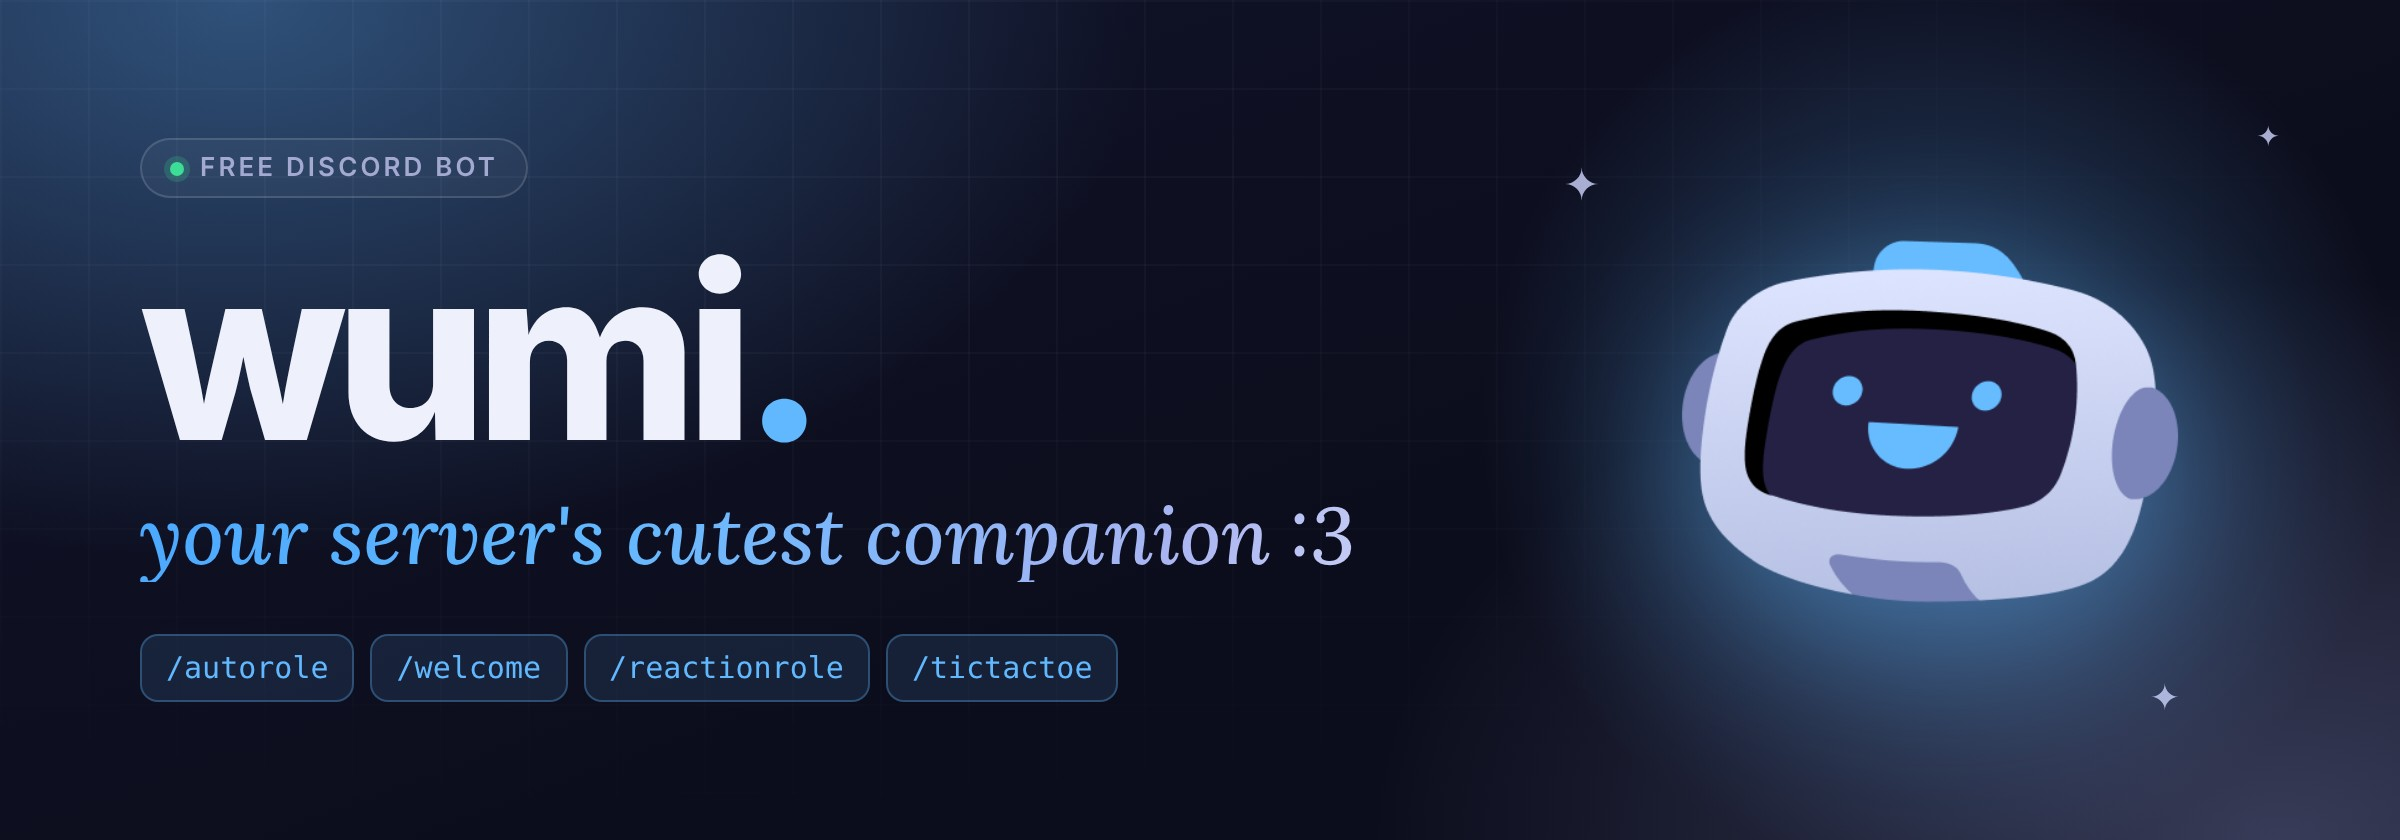
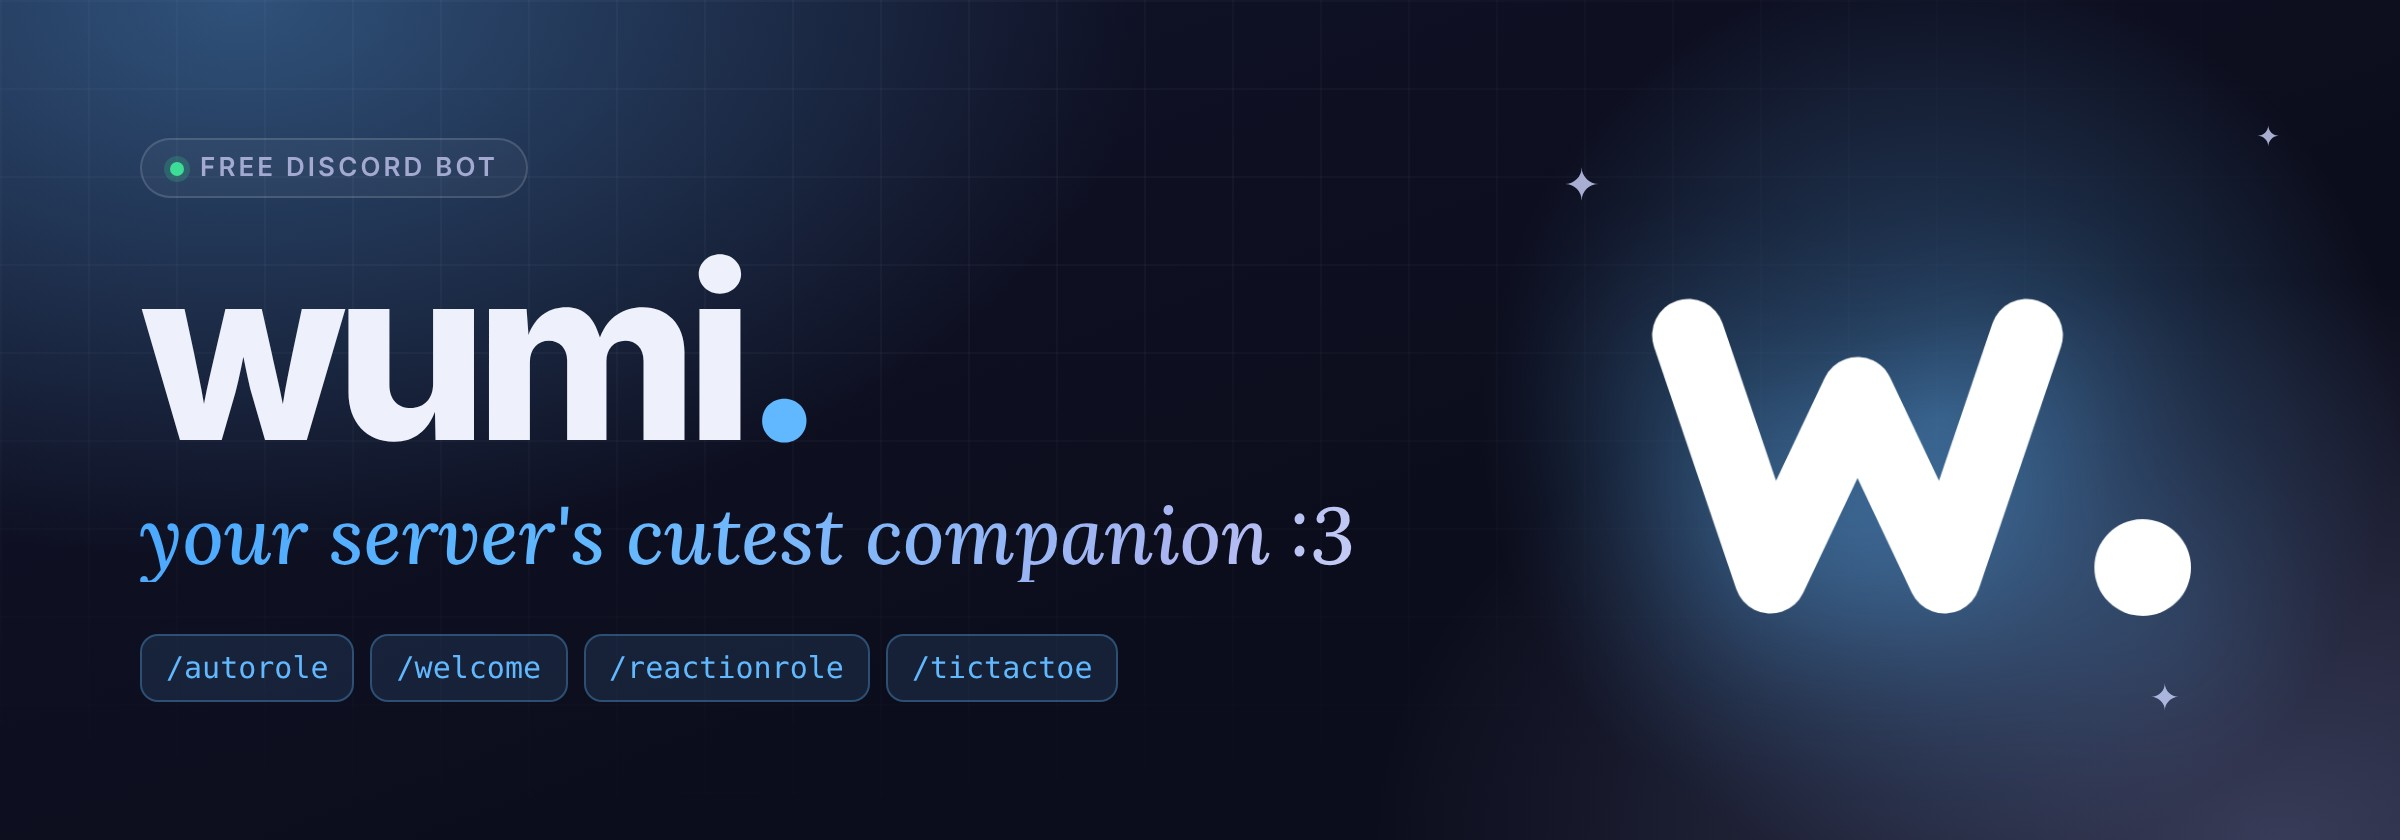
t

Changed region(s): [[0.6875, 0.2786, 0.9375, 0.7429]]

diff --git a/index.html b/index.html
@@ -11,15 +11,15 @@
 <meta property="og:url" content="https://zhaak63.github.io/Wumi/">
 <meta property="og:title" content="Wumi · Bot & outils Discord">
 <meta property="og:description" content="Un bot mignon qui gère ton serveur, et des outils gratuits pour le rendre beau.">
-<meta property="og:image" content="https://zhaak63.github.io/Wumi/og-wumi.jpg?v=2">
+<meta property="og:image" content="https://zhaak63.github.io/Wumi/og-wumi.jpg?v=3">
 <meta property="og:image:width" content="1200">
 <meta property="og:image:height" content="630">
 <meta property="og:image:alt" content="Wumi, le petit robot mascotte du bot">
 <meta name="twitter:card" content="summary_large_image">
-<meta name="twitter:image" content="https://zhaak63.github.io/Wumi/og-wumi.jpg?v=2">
-<link rel="icon" type="image/png" sizes="64x64" href="favicon.png?v=2">
-<link rel="icon" href="favicon.ico?v=2" sizes="any">
-<link rel="apple-touch-icon" href="apple-touch-icon.png?v=2">
+<meta name="twitter:image" content="https://zhaak63.github.io/Wumi/og-wumi.jpg?v=3">
+<link rel="icon" type="image/png" sizes="64x64" href="favicon.png?v=3">
+<link rel="icon" href="favicon.ico?v=3" sizes="any">
+<link rel="apple-touch-icon" href="apple-touch-icon.png?v=3">
 <link rel="preconnect" href="https://fonts.googleapis.com">
 <link rel="preconnect" href="https://fonts.gstatic.com" crossorigin>
 <link href="https://fonts.googleapis.com/css2?family=Inter:wght@400;500;600;700&family=Instrument+Serif:ital@0;1&display=swap" rel="stylesheet">
@@ -54,7 +54,7 @@ em.serif,.serif{font-family:"Instrument Serif",Georgia,serif;font-style:italic;f
 header{position:sticky;top:0;z-index:50;backdrop-filter:blur(14px);background:rgba(12,13,28,.72);border-bottom:1px solid var(--line)}
 nav{display:flex;align-items:center;gap:28px;height:68px}
 .logo{display:flex;align-items:center;gap:10px;font-weight:700;font-size:20px;letter-spacing:-.02em}
-.logo-mark{width:36px;height:36px;object-fit:contain;filter:drop-shadow(0 4px 12px rgba(98,184,255,.35))}
+.logo-mark{width:30px;height:30px;object-fit:contain;filter:drop-shadow(0 4px 12px rgba(98,184,255,.35))}
 .ava.wumi{background:none;padding:0}.ava.wumi img{width:28px;height:28px;object-fit:contain}
 .logo span.dot{color:var(--pink)}
 .nav-links{display:flex;gap:22px;font-size:14.5px;color:var(--muted)}
@@ -78,7 +78,7 @@ h1{font-size:clamp(40px,7vw,78px);line-height:1.02;letter-spacing:-.035em;font-w
 h1 .serif{display:block;font-size:1.08em;font-weight:400}
 .lead{font-size:clamp(16px,2vw,19px);color:var(--muted);max-width:620px;margin:24px auto 34px}
 .hero-ctas{display:flex;gap:12px;justify-content:center;flex-wrap:wrap}
-.hero-mascot{width:110px;height:110px;margin:0 auto 18px;animation:bob 3.5s ease-in-out infinite;filter:drop-shadow(0 18px 34px rgba(98,184,255,.4))}
+.hero-mascot{width:132px;height:110px;object-fit:contain;margin:0 auto 22px;animation:float 4s ease-in-out infinite;filter:drop-shadow(0 18px 34px rgba(98,184,255,.4))}
 .hero-mascot.rv.in{opacity:1}
 .hero-note{margin-top:18px;font-size:13px;color:var(--dim)}
 
@@ -179,7 +179,8 @@ details p{color:var(--muted);margin-top:12px;font-size:15.5px}
 /* cta */
 .cta{margin-top:120px;position:relative;text-align:center;padding:80px 24px;border-radius:28px;border:1px solid var(--line-2);overflow:hidden;
   background:radial-gradient(500px 260px at 20% 0%,rgba(98,184,255,.22),transparent 70%),radial-gradient(500px 260px at 80% 100%,rgba(143,160,255,.2),transparent 70%),var(--bg-2)}
-.cta .mascot{width:120px;height:120px;margin:0 auto 14px;display:block;animation:bob 3s ease-in-out infinite;filter:drop-shadow(0 16px 30px rgba(98,184,255,.35))}
+.cta .mascot{width:96px;height:96px;margin:0 auto 18px;display:block;animation:float 3.5s ease-in-out infinite;filter:drop-shadow(0 16px 30px rgba(98,184,255,.35))}
+@keyframes float{50%{transform:translateY(-8px)}}
 @keyframes bob{50%{transform:translateY(-8px) rotate(-4deg)}}
 .cta p{color:var(--muted);max-width:540px;margin:16px auto 30px;font-size:17px}
 
@@ -224,7 +225,7 @@ footer{margin-top:100px;border-top:1px solid var(--line);padding:60px 0 40px}
 
 <header id="hdr">
   <nav class="wrap">
-    <a href="#top" class="logo"><img src="Logo.png" alt="Wumi" class="logo-mark"><span>wumi<span class="dot">.</span></span></a>
+    <a href="#top" class="logo"><img src="wumi-icone.svg" alt="" class="logo-mark"><span>wumi<span class="dot">.</span></span></a>
     <div class="nav-links">
       <a href="#fonctions">Fonctionnalités</a>
       <a href="#outils">Outils</a>
@@ -245,7 +246,7 @@ footer{margin-top:100px;border-top:1px solid var(--line);padding:60px 0 40px}
   <div class="hero">
     <div class="grid-bg"></div>
     <div class="wrap">
-      <img src="Logo.png" alt="Wumi" class="hero-mascot rv">
+      <img src="wumi-w.svg" alt="Wumi" class="hero-mascot rv">
       <div class="pill rv"><b>NOUVEAU</b> Wumi et Aesthetic Creators, réunis au même endroit</div>
       <h1 class="rv">Un serveur qui vit. <span class="serif grad-text">Un bot qui suit le rythme.</span></h1>
       <p class="lead rv">Wumi accueille tes membres, distribue les rôles et veille sur la modération. Et pour rendre ton serveur beau, tous les outils Aesthetic Creators sont juste à côté, gratuits.</p>
@@ -283,8 +284,8 @@ footer{margin-top:100px;border-top:1px solid var(--line);padding:60px 0 40px}
         <aside class="mock-chat">
           <h6># BIENVENUE</h6>
           <div class="msg"><div class="ava" style="background:#7b80b8;color:#fff">M</div><div><span class="name">Maya</span><p><span class="cmd">/autorole add</span> role: <span class="mention">@Membre</span></p></div></div>
-          <div class="msg"><div class="ava wumi"><img src="Logo.png" alt="Wumi"></div><div><span class="name">Wumi<span class="bot">BOT</span></span><p>C'est réglé ! Les nouveaux recevront automatiquement <span class="mention">@Membre</span>.</p></div></div>
-          <div class="msg"><div class="ava wumi"><img src="Logo.png" alt="Wumi"></div><div><span class="name">Wumi<span class="bot">BOT</span></span><p>Bienvenue sur le serveur <span class="mention">@Noa</span> ! Je t'ai donné le rôle @Membre :3</p></div></div>
+          <div class="msg"><div class="ava wumi"><img src="wumi-icone.svg" alt="Wumi"></div><div><span class="name">Wumi<span class="bot">BOT</span></span><p>C'est réglé ! Les nouveaux recevront automatiquement <span class="mention">@Membre</span>.</p></div></div>
+          <div class="msg"><div class="ava wumi"><img src="wumi-icone.svg" alt="Wumi"></div><div><span class="name">Wumi<span class="bot">BOT</span></span><p>Bienvenue sur le serveur <span class="mention">@Noa</span> ! Je t'ai donné le rôle @Membre :3</p></div></div>
         </aside>
       </div>
     </div>
@@ -389,7 +390,7 @@ footer{margin-top:100px;border-top:1px solid var(--line);padding:60px 0 40px}
   <!-- CTA -->
   <div class="wrap">
     <div class="cta rv">
-      <img src="Logo.png" alt="Wumi" class="mascot">
+      <img src="wumi-icone.svg" alt="Wumi" class="mascot">
       <div class="eyebrow">ADOPTE WUMI AUJOURD'HUI</div>
       <h2>Prêt à donner vie <span class="serif grad-text">à ton serveur ?</span></h2>
       <p>Invite-le en quelques secondes. Une question ? Viens dire coucou sur le serveur de support.</p>
@@ -404,7 +405,7 @@ footer{margin-top:100px;border-top:1px solid var(--line);padding:60px 0 40px}
 <footer>
   <div class="wrap">
     <div class="foot">
-      <div><a href="#top" class="logo"><img src="Logo.png" alt="Wumi" class="logo-mark"><span>wumi<span class="dot">.</span></span></a><p>Un petit compagnon pour ton serveur, et des outils pour le rendre beau.</p></div>
+      <div><a href="#top" class="logo"><img src="wumi-icone.svg" alt="" class="logo-mark"><span>wumi<span class="dot">.</span></span></a><p>Un petit compagnon pour ton serveur, et des outils pour le rendre beau.</p></div>
       <div><h5>Bot</h5><a href="#fonctions">Fonctionnalités</a><a href="#commandes">Commandes</a><a href="#demarrer">Démarrer</a><a href="#faq">FAQ</a></div>
       <div><h5>Outils</h5><a href="https://aestheticcreators.xyz/#/embed">Embeds</a><a href="https://aestheticcreators.xyz/#/colored">Texte coloré</a><a href="https://aestheticcreators.xyz/#/timestamps">Timestamps</a><a href="https://github.com/Zhaak63/Role-Icon-Downloader">GitHub</a></div>
       <div><h5>Communauté</h5><a href="https://discord.gg/VaGrXgnAHS">Support Wumi</a><a href="https://discord.gg/94seN7srjv">Aesthetic Creators</a><a href="conditions.html">Conditions</a><a href="confidentialite.html">Confidentialité</a></div>

diff --git a/confidentialite.html b/confidentialite.html
@@ -11,15 +11,15 @@
 <meta property="og:url" content="https://zhaak63.github.io/Wumi/confidentialite.html">
 <meta property="og:title" content="Politique de confidentialité · Wumi">
 <meta property="og:description" content="Ce que Wumi et les outils Aesthetic Creators enregistrent, et comment le faire effacer.">
-<meta property="og:image" content="https://zhaak63.github.io/Wumi/og-wumi.jpg?v=2">
+<meta property="og:image" content="https://zhaak63.github.io/Wumi/og-wumi.jpg?v=3">
 <meta property="og:image:width" content="1200">
 <meta property="og:image:height" content="630">
 <meta property="og:image:alt" content="Wumi, le petit robot mascotte du bot">
 <meta name="twitter:card" content="summary_large_image">
-<meta name="twitter:image" content="https://zhaak63.github.io/Wumi/og-wumi.jpg?v=2">
-<link rel="icon" type="image/png" sizes="64x64" href="favicon.png?v=2">
-<link rel="icon" href="favicon.ico?v=2" sizes="any">
-<link rel="apple-touch-icon" href="apple-touch-icon.png?v=2">
+<meta name="twitter:image" content="https://zhaak63.github.io/Wumi/og-wumi.jpg?v=3">
+<link rel="icon" type="image/png" sizes="64x64" href="favicon.png?v=3">
+<link rel="icon" href="favicon.ico?v=3" sizes="any">
+<link rel="apple-touch-icon" href="apple-touch-icon.png?v=3">
 <link rel="preconnect" href="https://fonts.googleapis.com">
 <link rel="preconnect" href="https://fonts.gstatic.com" crossorigin>
 <link href="https://fonts.googleapis.com/css2?family=Inter:wght@400;500;600;700&family=Instrument+Serif:ital@0;1&display=swap" rel="stylesheet">
@@ -38,7 +38,7 @@ a{color:inherit;text-decoration:none}
 header{position:sticky;top:0;z-index:50;backdrop-filter:blur(14px);background:rgba(12,13,28,.72);border-bottom:1px solid var(--line)}
 nav{display:flex;align-items:center;gap:28px;height:68px}
 .logo{display:flex;align-items:center;gap:10px;font-weight:700;font-size:20px;letter-spacing:-.02em}
-.logo img{width:36px;height:36px;object-fit:contain;filter:drop-shadow(0 4px 12px rgba(98,184,255,.35))}
+.logo img{width:30px;height:30px;object-fit:contain;filter:drop-shadow(0 4px 12px rgba(98,184,255,.35))}
 .logo .dot{color:var(--blue)}
 .nav-links{display:flex;gap:22px;font-size:14.5px;color:var(--muted)}
 .nav-links a:hover,.nav-links a.on{color:var(--text)}
@@ -94,7 +94,7 @@ footer{margin-top:100px;border-top:1px solid var(--line);padding:40px 0}
 <body>
 <div class="glow"></div>
 <header><nav class="wrap">
-  <a href="index.html" class="logo"><img src="Logo.png" alt="Wumi"><span>wumi<span class="dot">.</span></span></a>
+  <a href="index.html" class="logo"><img src="wumi-icone.svg" alt=""><span>wumi<span class="dot">.</span></span></a>
   <div class="nav-links"><a href="index.html#fonctions">Fonctionnalités</a><a href="index.html#outils">Outils</a><a href="index.html#faq">FAQ</a><a href="conditions.html" class="">Conditions</a><a href="confidentialite.html" class="on">Confidentialité</a></div>
   <a class="btn btn-primary" href="https://discord.com/oauth2/authorize?client_id=1545770920185045084&scope=bot%20applications.commands&permissions=1426362592470">Ajouter à Discord</a>
 </nav></header>

diff --git a/conditions.html b/conditions.html
@@ -11,15 +11,15 @@
 <meta property="og:url" content="https://zhaak63.github.io/Wumi/conditions.html">
 <meta property="og:title" content="Conditions d'utilisation · Wumi">
 <meta property="og:description" content="Les conditions d'utilisation du bot Wumi et des outils Aesthetic Creators.">
-<meta property="og:image" content="https://zhaak63.github.io/Wumi/og-wumi.jpg?v=2">
+<meta property="og:image" content="https://zhaak63.github.io/Wumi/og-wumi.jpg?v=3">
 <meta property="og:image:width" content="1200">
 <meta property="og:image:height" content="630">
 <meta property="og:image:alt" content="Wumi, le petit robot mascotte du bot">
 <meta name="twitter:card" content="summary_large_image">
-<meta name="twitter:image" content="https://zhaak63.github.io/Wumi/og-wumi.jpg?v=2">
-<link rel="icon" type="image/png" sizes="64x64" href="favicon.png?v=2">
-<link rel="icon" href="favicon.ico?v=2" sizes="any">
-<link rel="apple-touch-icon" href="apple-touch-icon.png?v=2">
+<meta name="twitter:image" content="https://zhaak63.github.io/Wumi/og-wumi.jpg?v=3">
+<link rel="icon" type="image/png" sizes="64x64" href="favicon.png?v=3">
+<link rel="icon" href="favicon.ico?v=3" sizes="any">
+<link rel="apple-touch-icon" href="apple-touch-icon.png?v=3">
 <link rel="preconnect" href="https://fonts.googleapis.com">
 <link rel="preconnect" href="https://fonts.gstatic.com" crossorigin>
 <link href="https://fonts.googleapis.com/css2?family=Inter:wght@400;500;600;700&family=Instrument+Serif:ital@0;1&display=swap" rel="stylesheet">
@@ -38,7 +38,7 @@ a{color:inherit;text-decoration:none}
 header{position:sticky;top:0;z-index:50;backdrop-filter:blur(14px);background:rgba(12,13,28,.72);border-bottom:1px solid var(--line)}
 nav{display:flex;align-items:center;gap:28px;height:68px}
 .logo{display:flex;align-items:center;gap:10px;font-weight:700;font-size:20px;letter-spacing:-.02em}
-.logo img{width:36px;height:36px;object-fit:contain;filter:drop-shadow(0 4px 12px rgba(98,184,255,.35))}
+.logo img{width:30px;height:30px;object-fit:contain;filter:drop-shadow(0 4px 12px rgba(98,184,255,.35))}
 .logo .dot{color:var(--blue)}
 .nav-links{display:flex;gap:22px;font-size:14.5px;color:var(--muted)}
 .nav-links a:hover,.nav-links a.on{color:var(--text)}
@@ -94,7 +94,7 @@ footer{margin-top:100px;border-top:1px solid var(--line);padding:40px 0}
 <body>
 <div class="glow"></div>
 <header><nav class="wrap">
-  <a href="index.html" class="logo"><img src="Logo.png" alt="Wumi"><span>wumi<span class="dot">.</span></span></a>
+  <a href="index.html" class="logo"><img src="wumi-icone.svg" alt=""><span>wumi<span class="dot">.</span></span></a>
   <div class="nav-links"><a href="index.html#fonctions">Fonctionnalités</a><a href="index.html#outils">Outils</a><a href="index.html#faq">FAQ</a><a href="conditions.html" class="on">Conditions</a><a href="confidentialite.html" class="">Confidentialité</a></div>
   <a class="btn btn-primary" href="https://discord.com/oauth2/authorize?client_id=1545770920185045084&scope=bot%20applications.commands&permissions=1426362592470">Ajouter à Discord</a>
 </nav></header>
